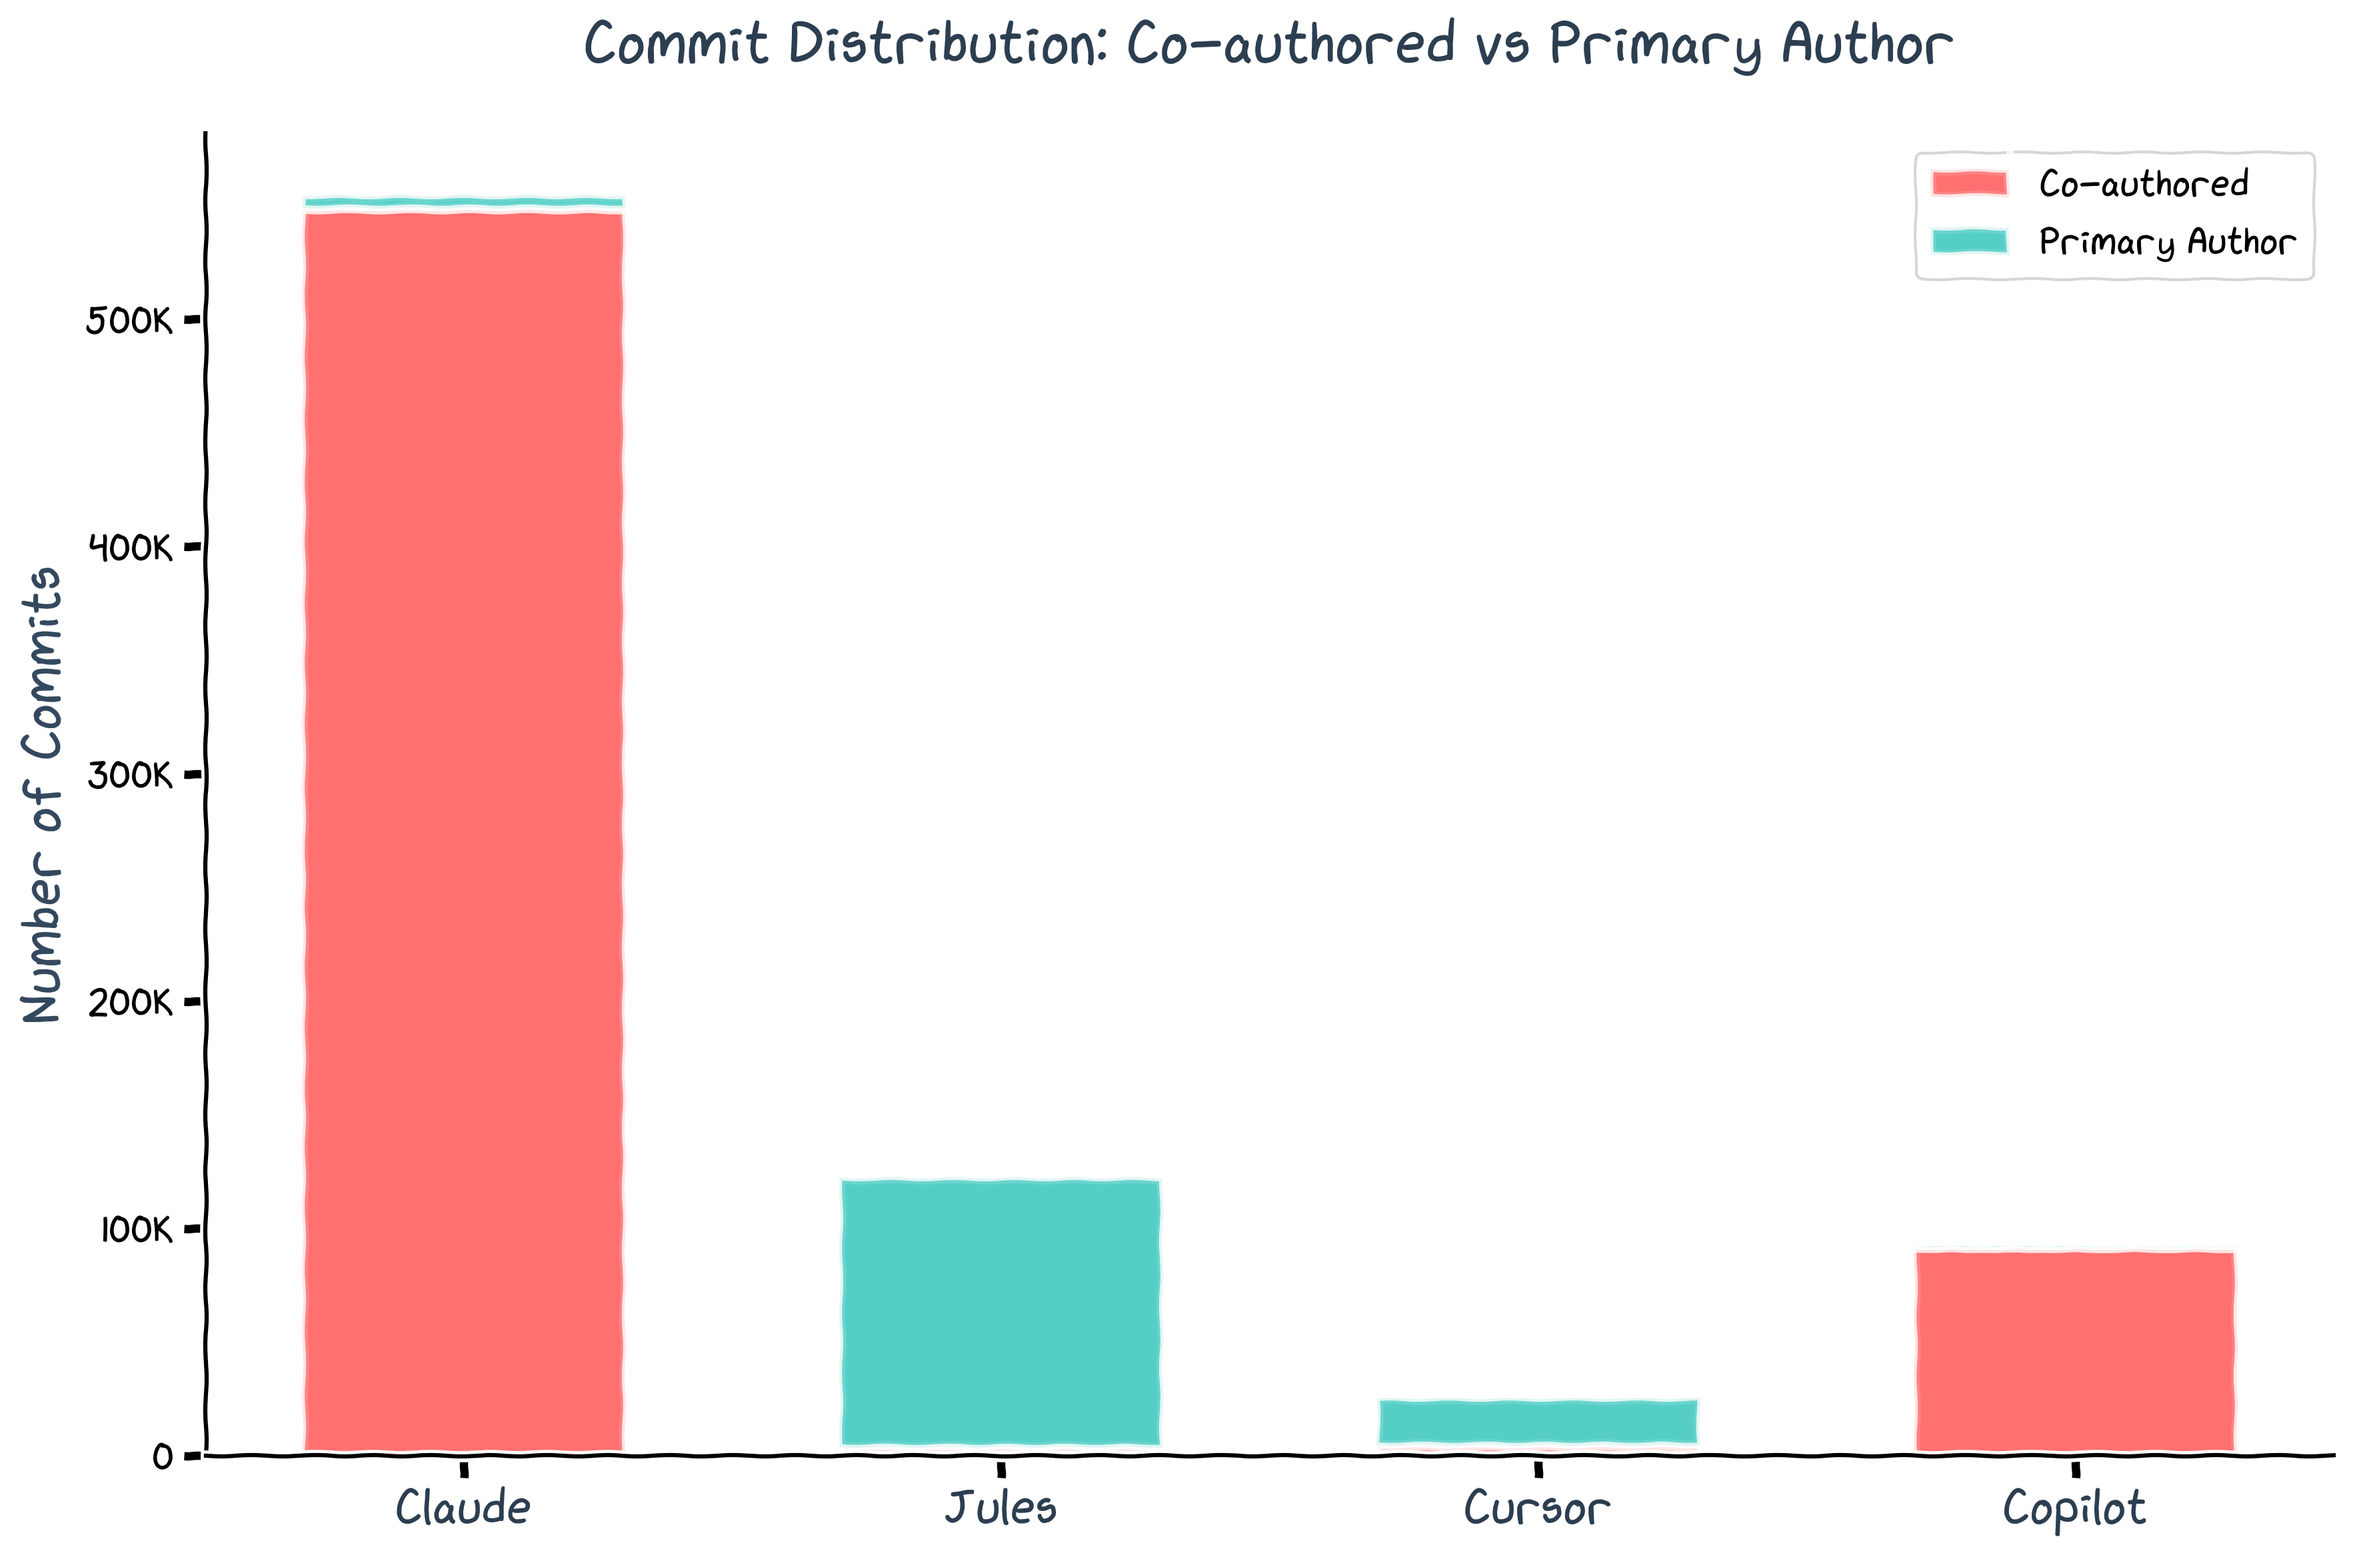
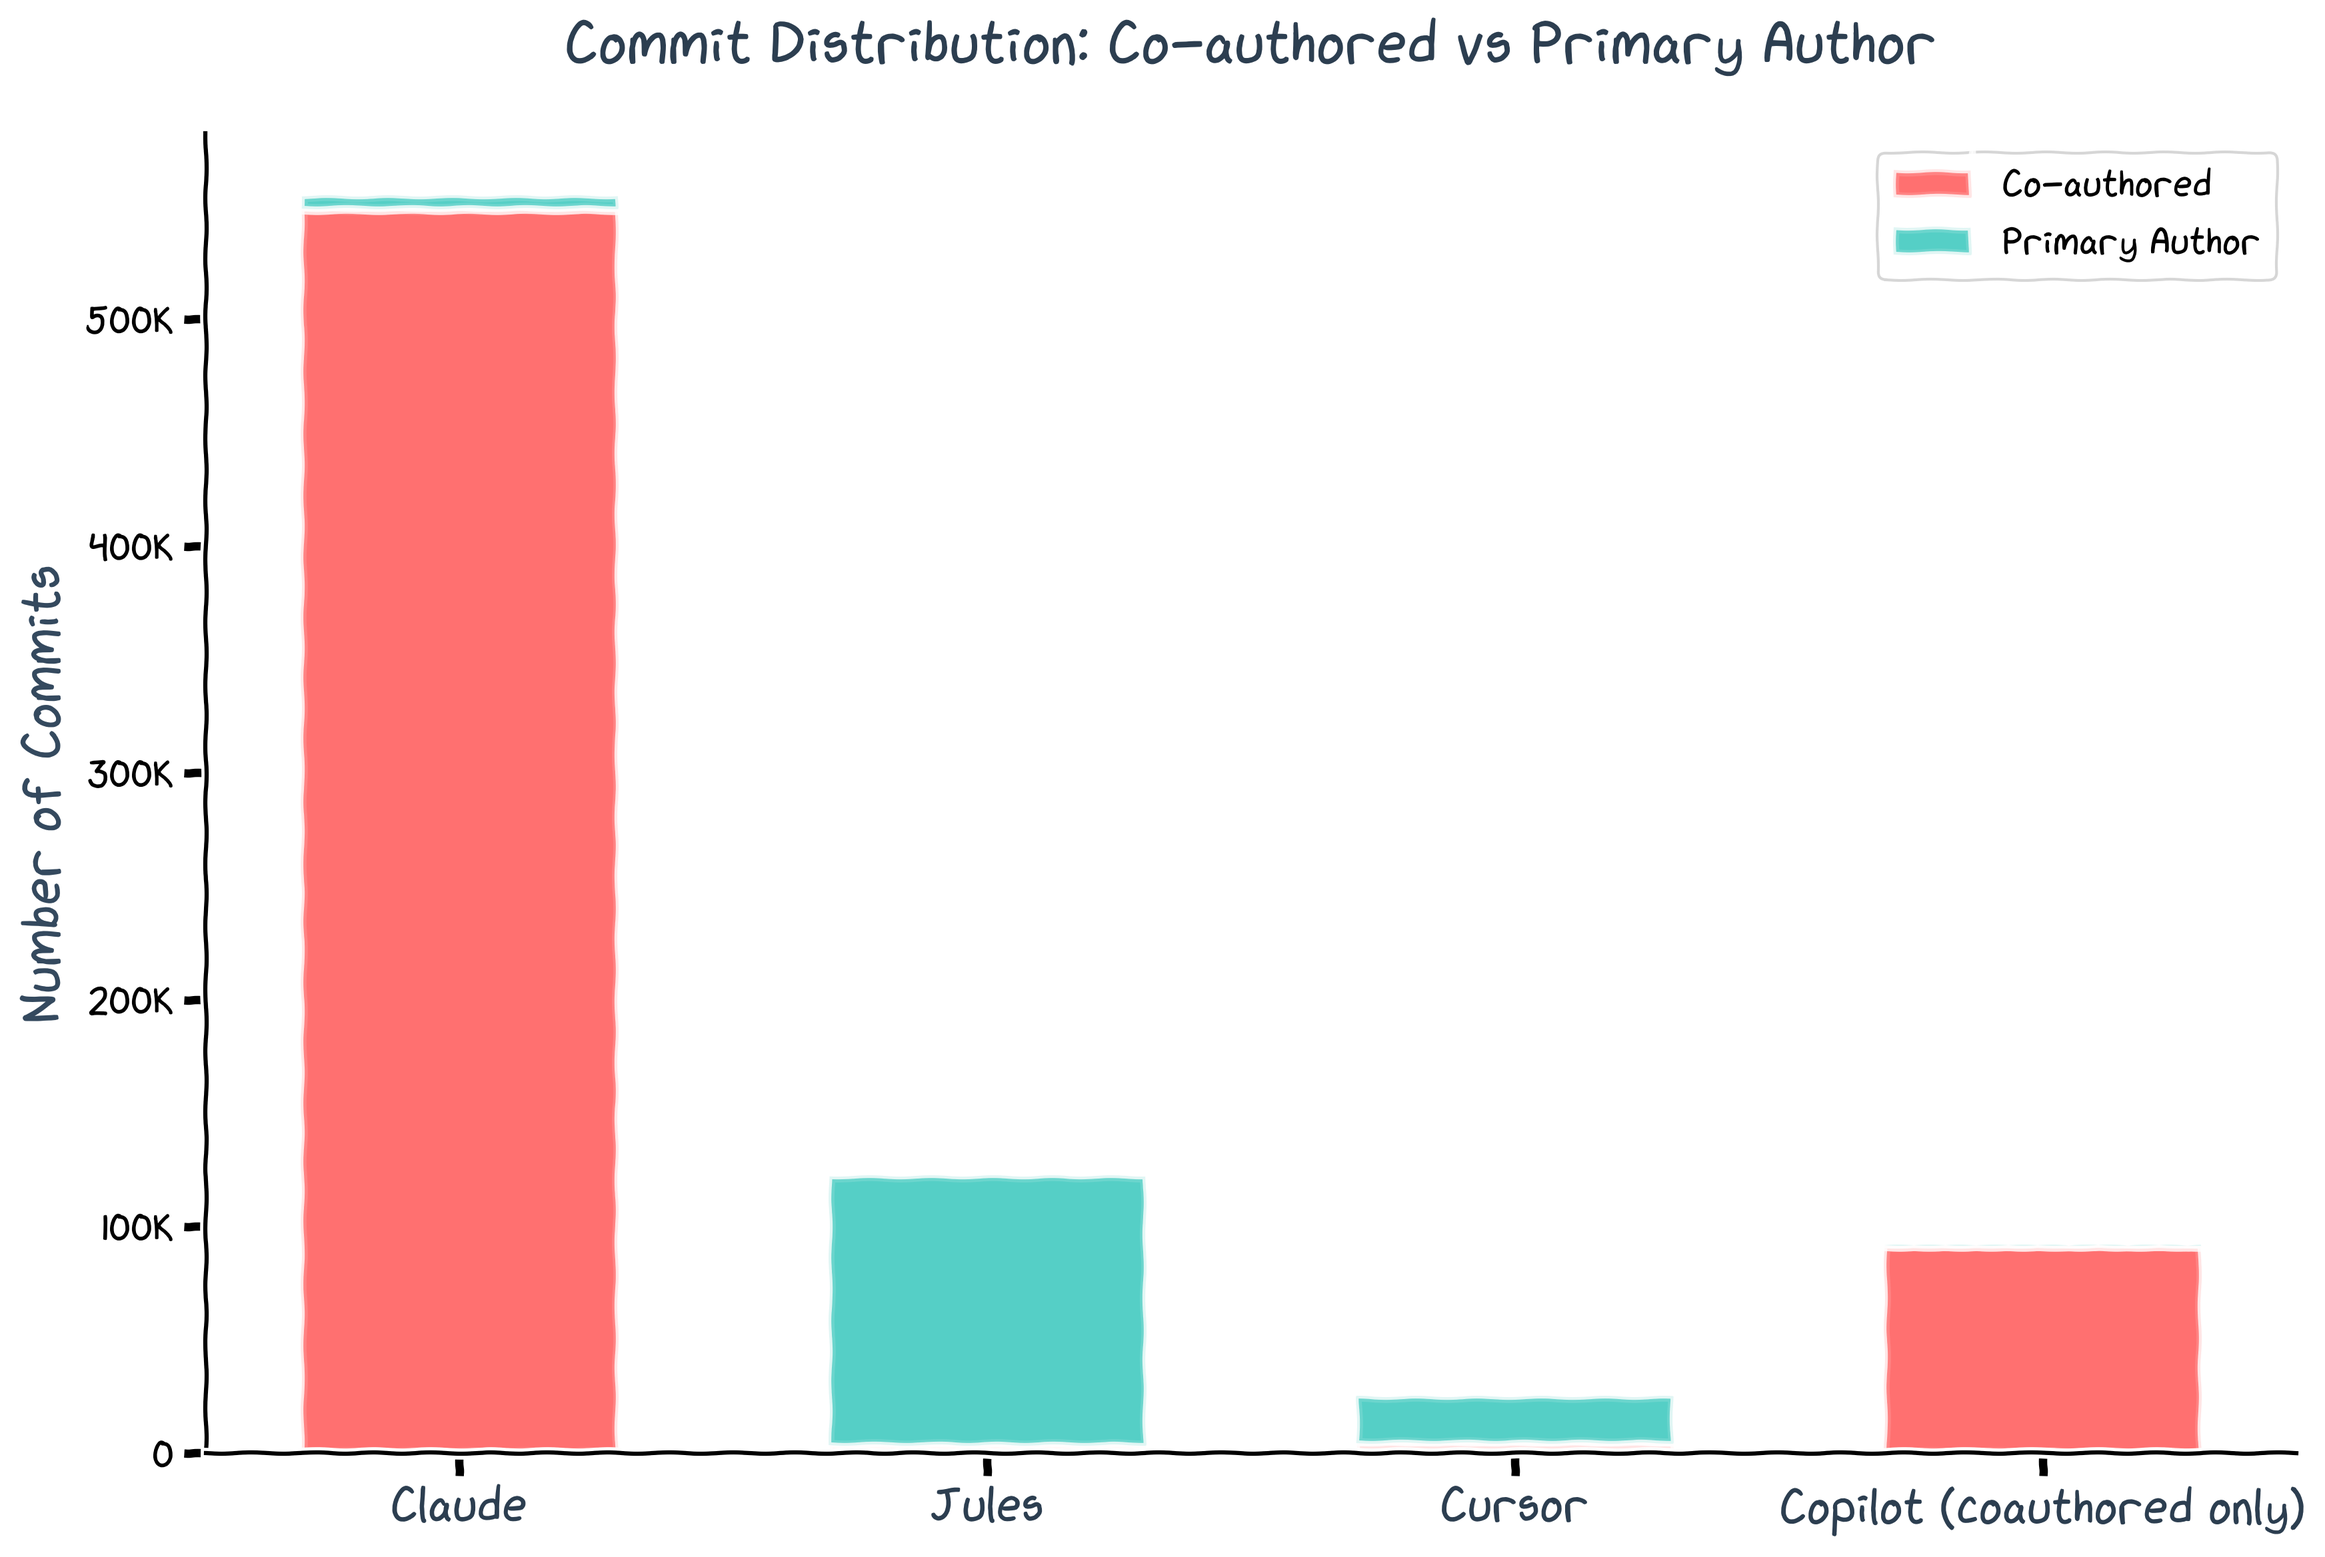
fix: clarify Copilot data

diff --git a/plot.py b/plot.py
@@ -74,7 +74,7 @@ def plot_weekly_commits(data, save_path="plots/weekly_commits_chart.png"):
         'Claude': '#D97554',      # Claude orange
         'Jules': '#715CD7',       # Jules purple
         'Cursor': '#000000',      # Cursor black  
-        'Copilot': '#F6F8FA',     # Copilot light gray (back to original)
+        'Copilot (coauthored only)': '#F6F8FA',     # Copilot light gray (back to original)
         'Windsurf': '#FECA57'     # Warm yellow
     }
     
@@ -125,7 +125,7 @@ def plot_weekly_commits(data, save_path="plots/weekly_commits_chart.png"):
             primary = week['commits_primary_author'] if week['commits_primary_author'] is not None else 0
             
             # For Copilot, only count co-authored commits due to data issues with primary author
-            if name == 'Copilot':
+            if name == 'Copilot (coauthored only)':
                 week_total = coauthored
             else:
                 week_total = coauthored + primary
@@ -145,7 +145,7 @@ def plot_weekly_commits(data, save_path="plots/weekly_commits_chart.png"):
         color = colors.get(name, '#333333')
         
         # Simple line plotting - xkcd style handles the squiggly appearance
-        if name == 'Copilot':
+        if name == 'Copilot (coauthored only)':
             # Add grayer border for light Copilot color visibility
             ax.plot(dates_array, commits_array, color='#888888', linewidth=5, 
                    alpha=0.9, zorder=8)
@@ -162,7 +162,7 @@ def plot_weekly_commits(data, save_path="plots/weekly_commits_chart.png"):
             'Claude': 'icons/claude.png',
             'Jules': 'icons/jules.png', 
             'Cursor': 'icons/cursor.png',
-            'Copilot': 'icons/copilot.png',
+            'Copilot (coauthored only)': 'icons/copilot.png',
             # 'Windsurf': 'windsurf-ai'  # Commented out
         }
         
@@ -178,7 +178,7 @@ def plot_weekly_commits(data, save_path="plots/weekly_commits_chart.png"):
                     'Claude': 'claude-ai',
                     'Jules': 'google-labs-jules[bot]', 
                     'Cursor': 'cursor-ai',
-                    'Copilot': 'github-copilot',
+                    'Copilot (coauthored only)': 'github-copilot',
                 }
                 avatar = download_github_avatar(github_usernames.get(name, name.lower()))
         
@@ -189,7 +189,7 @@ def plot_weekly_commits(data, save_path="plots/weekly_commits_chart.png"):
             legend_elements.append((name, color, None))
     
     # Styling
-    ax.set_title('GitHub activity (coauthored commits)', 
+    ax.set_title('GitHub activity (co/authored commits)', 
                 fontsize=24, fontweight='bold', color='#2c3e50', pad=35)
     ax.set_xlabel('Date', fontsize=20, color='#34495e')
     ax.set_ylabel('Cumulative Commits', fontsize=20, color='#34495e')
@@ -262,7 +262,7 @@ def plot_commit_breakdown(data, save_path="plots/commit_breakdown_chart.png"):
         stats = user_data['overall_stats']
         
         # For Copilot, only show co-authored commits due to primary author data issues
-        if user_data['display_name'] == 'Copilot':
+        if user_data['display_name'] == 'Copilot (coauthored only)':
             coauthored.append(stats.get('commits_coauthored', 0) or 0)
             primary.append(0)  # Don't show primary author commits for Copilot
         else:

diff --git a/main.py b/main.py
@@ -207,7 +207,7 @@ if __name__ == "__main__":
         ("Jules", "google-labs-jules[bot]", datetime(2025, 2, 24)),
         # ("Windsurf", "windsurf-bot[bot]", datetime(2025, 2, 24)),
         ("Cursor", "cursoragent", datetime(2025, 2, 24)),
-        ("Copilot", "Copilot", datetime(2025, 2, 24))
+        ("Copilot (coauthored only)", "Copilot", datetime(2025, 2, 24))
     ]
     
     all_data = {
